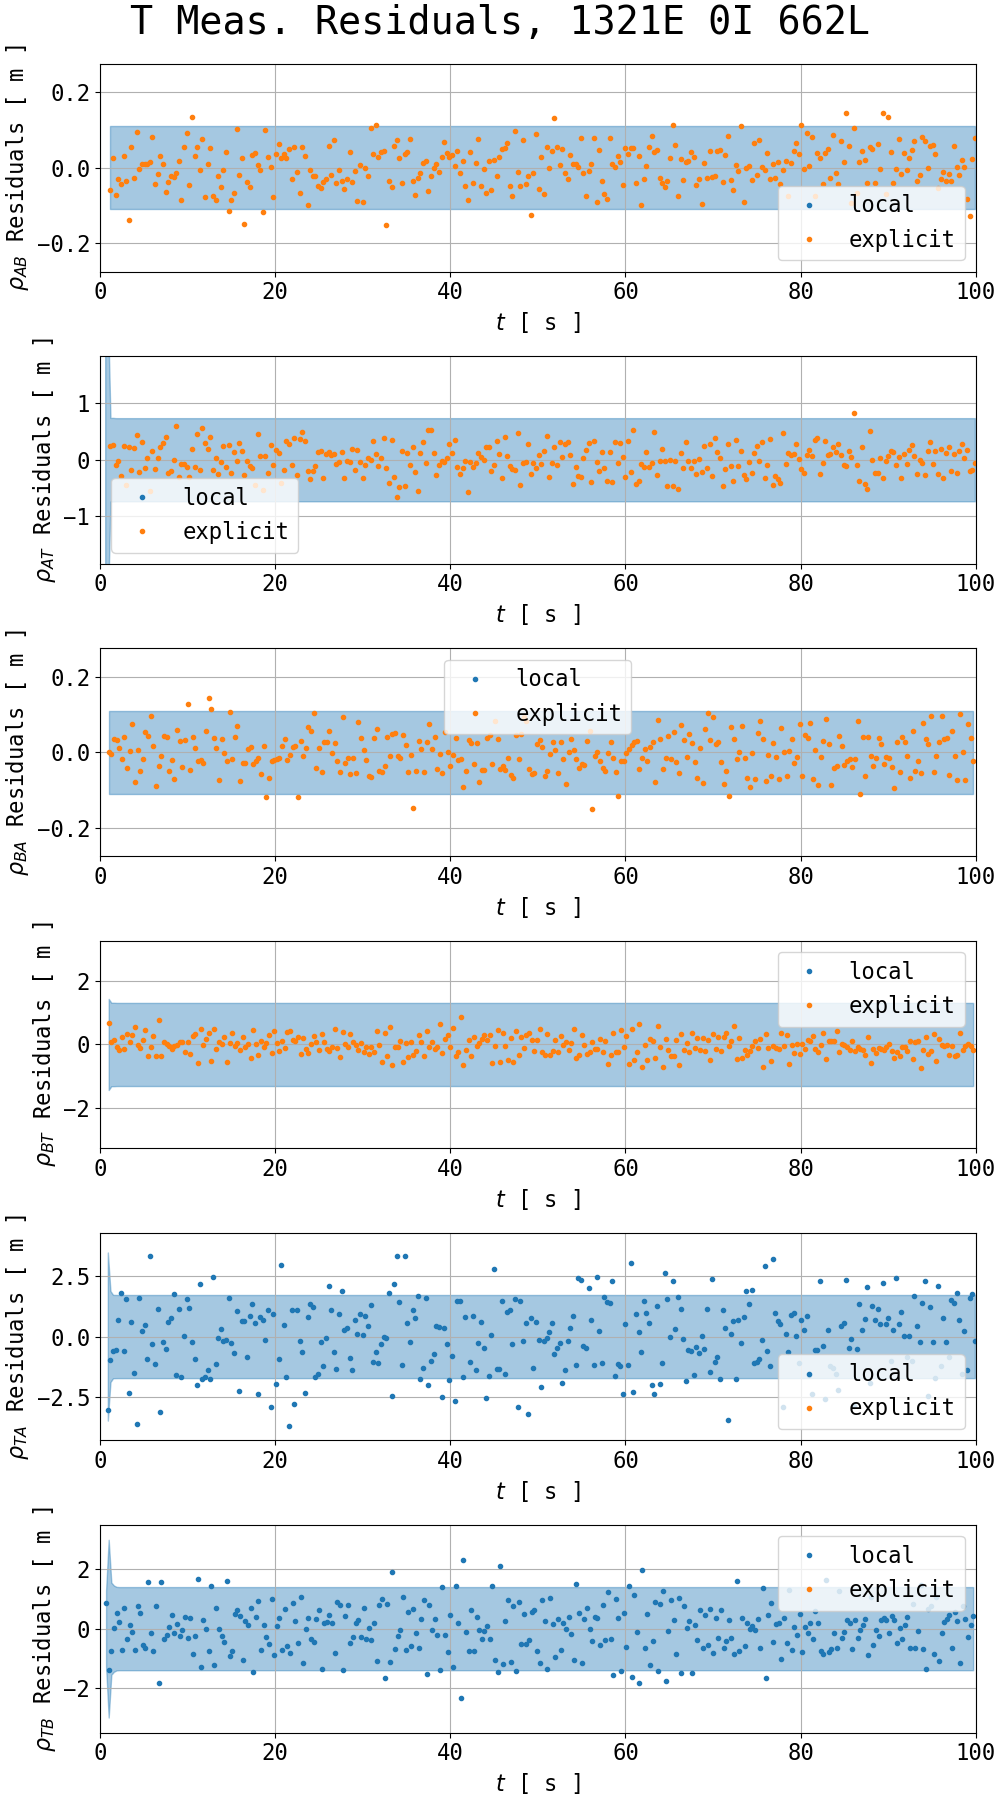
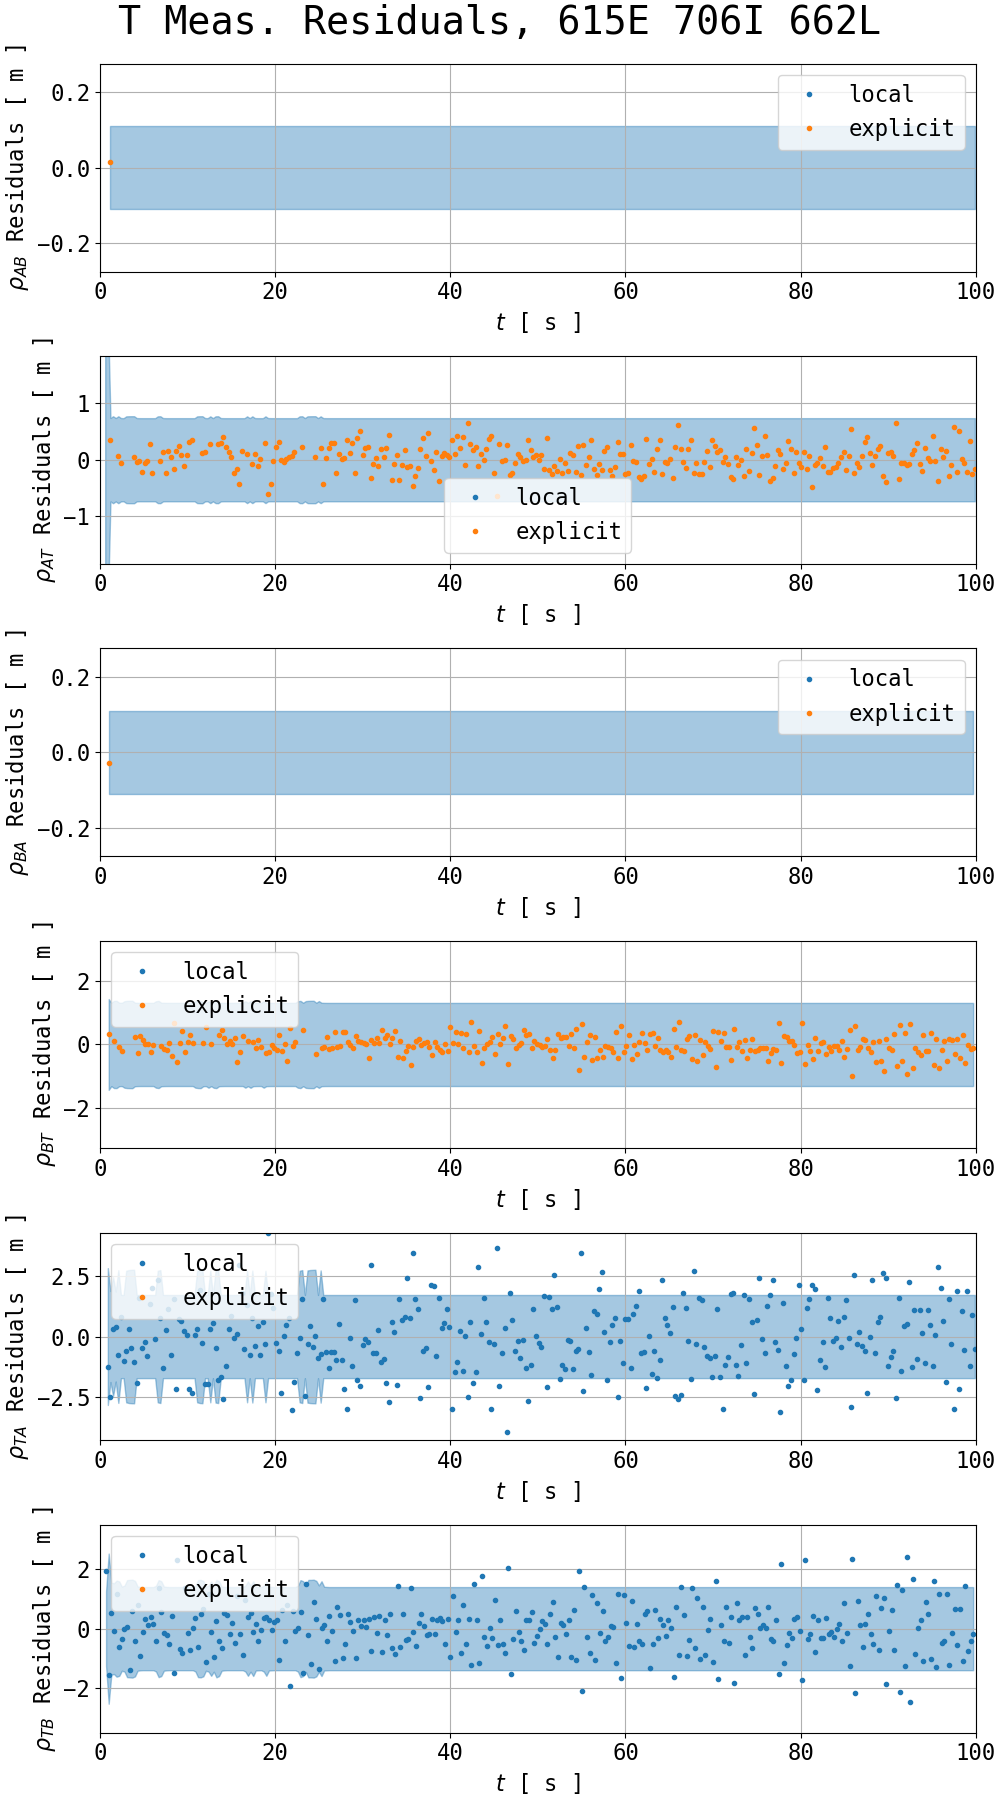
pushing current version for Luke

diff --git a/pntddf/filters.py b/pntddf/filters.py
@@ -83,6 +83,9 @@ class LSQ_Filter:
                 Q = self.agent.estimator.filt.generate_Q(time_delta, np.array([0]))
                 self.x = x
                 self.P = P + Q
+            else:
+                set_trace()
+                print("fail")
 
     def lsq_func(self, x):
         measurements = self.measurements
@@ -155,11 +158,10 @@ class Unscented_Kalman_Filter:
 
         self.state_log = State_Log(env, agent)
 
-        self.measurement = None
-
         self.define_initial_state()
         self.define_event_triggering_measurements()
         self.define_constants()
+        self.define_explicit_measurement_logs()
 
     def define_initial_state(self, x=np.array([]), P=np.array([])):
         if x.size == 0:
@@ -193,6 +195,10 @@ class Unscented_Kalman_Filter:
 
         self.N = N
         self.lamb = lamb
+
+    def define_explicit_measurement_logs(self):
+        self.explicit_measurement_transmission_log = {}
+        self.explicit_measurement_reception_log = {}
 
     def predict_self(self):
         x_hat = self.x.copy()
@@ -277,7 +283,6 @@ class Unscented_Kalman_Filter:
         return sigma_points
 
     def local_update(self, measurement):
-        self.measurement = measurement
         x_prediction = self.x.copy()
         P_prediction = self.P.copy()
 
@@ -316,8 +321,12 @@ class Unscented_Kalman_Filter:
 
             Q_e = P_yy
 
-            nu_minus = -self.env.delta / np.sqrt(Q_e)
-            nu_plus = self.env.delta / np.sqrt(Q_e)
+            y_previous = self.explicit_measurement_reception_log[measurement.name]
+
+            set_trace()
+
+            nu_minus = y - y_previous - self.env.delta / np.sqrt(Q_e)
+            nu_plus = y - y_previous + self.env.delta / np.sqrt(Q_e)
 
             z_bar = (
                 (phi(nu_minus) - phi(nu_plus))
@@ -352,14 +361,27 @@ class Unscented_Kalman_Filter:
             x_hat = (x_prediction + K * r).ravel()
             P_hat = P_prediction - P_yy * (K.T @ K)
 
+        if measurement.explicit:
+            self.explicit_measurement_reception_log[measurement.name] = measurement.z
+
         if measurement.local and self.env.et:
             meas = copy(measurement)
             meas.local = False
 
             # Check if measurement is expected to be surprising
-            if np.abs(measurement.r) > self.env.delta:
+            # TODO: change triggering criteria
+            if measurement.name in self.explicit_measurement_transmission_log.keys():
+                y_previous = self.explicit_measurement_transmission_log[
+                    measurement.name
+                ]
+                Delta_y = y - y_previous
+            else:
+                Delta_y = np.inf
+
+            if np.abs(Delta_y) > self.env.delta:
                 meas.explicit = True
                 meas.implicit = False
+                self.explicit_measurement_transmission_log[meas.name] = meas.z
             else:
                 meas.explicit = False
                 meas.implicit = True

diff --git a/pntddf/asset_detections.py b/pntddf/asset_detections.py
@@ -1,13 +1,19 @@
 import numpy as np
-import rospy
 from bpdb import set_trace
-from pntddf_ros.msg import DetectedAssetPosition, DetectedAssetPositionList
 
 from pntddf.measurements import Asset_Detection
 
 
 class Asset_Detections_Receiver:
     def __init__(self, env, agent):
+        global rospy
+        import rospy
+
+        global DetectedAssetPosition
+        global DetectedAssetPositionList
+        from pntddf_ros.msg import (DetectedAssetPosition,
+                                    DetectedAssetPositionList)
+
         self.env = env
         self.agent = agent
 

diff --git a/pntddf/estimator.py b/pntddf/estimator.py
@@ -32,7 +32,12 @@ class Estimator:
         self.run_filter(measurement)
 
     def run_filter(self, measurement):
-        rospy.loginfo("{} has measurement {}".format(self.agent.name, measurement.name))
+        if self.env.ros:
+            import rospy
+
+            rospy.loginfo(
+                "{} has measurement {}".format(self.agent.name, measurement.name)
+            )
         self.set_time_from_measurement(measurement)
 
         if self.env.lsq_init and not self.lsq_init_completed:

diff --git a/pntddf/main.py b/pntddf/main.py
@@ -10,8 +10,8 @@ from pntddf.results import (comm_savings, plot_b, plot_b_dot, plot_residuals,
                             plot_trajectory)
 
 # config_file = "../config/sim.config"
-# config_file = "../config/1d.config"
-config_file = "../config/demo.config"
+config_file = "../config/1d.config"
+# config_file = "../config/demo.config"
 
 env = setup_env(config_file)
 
